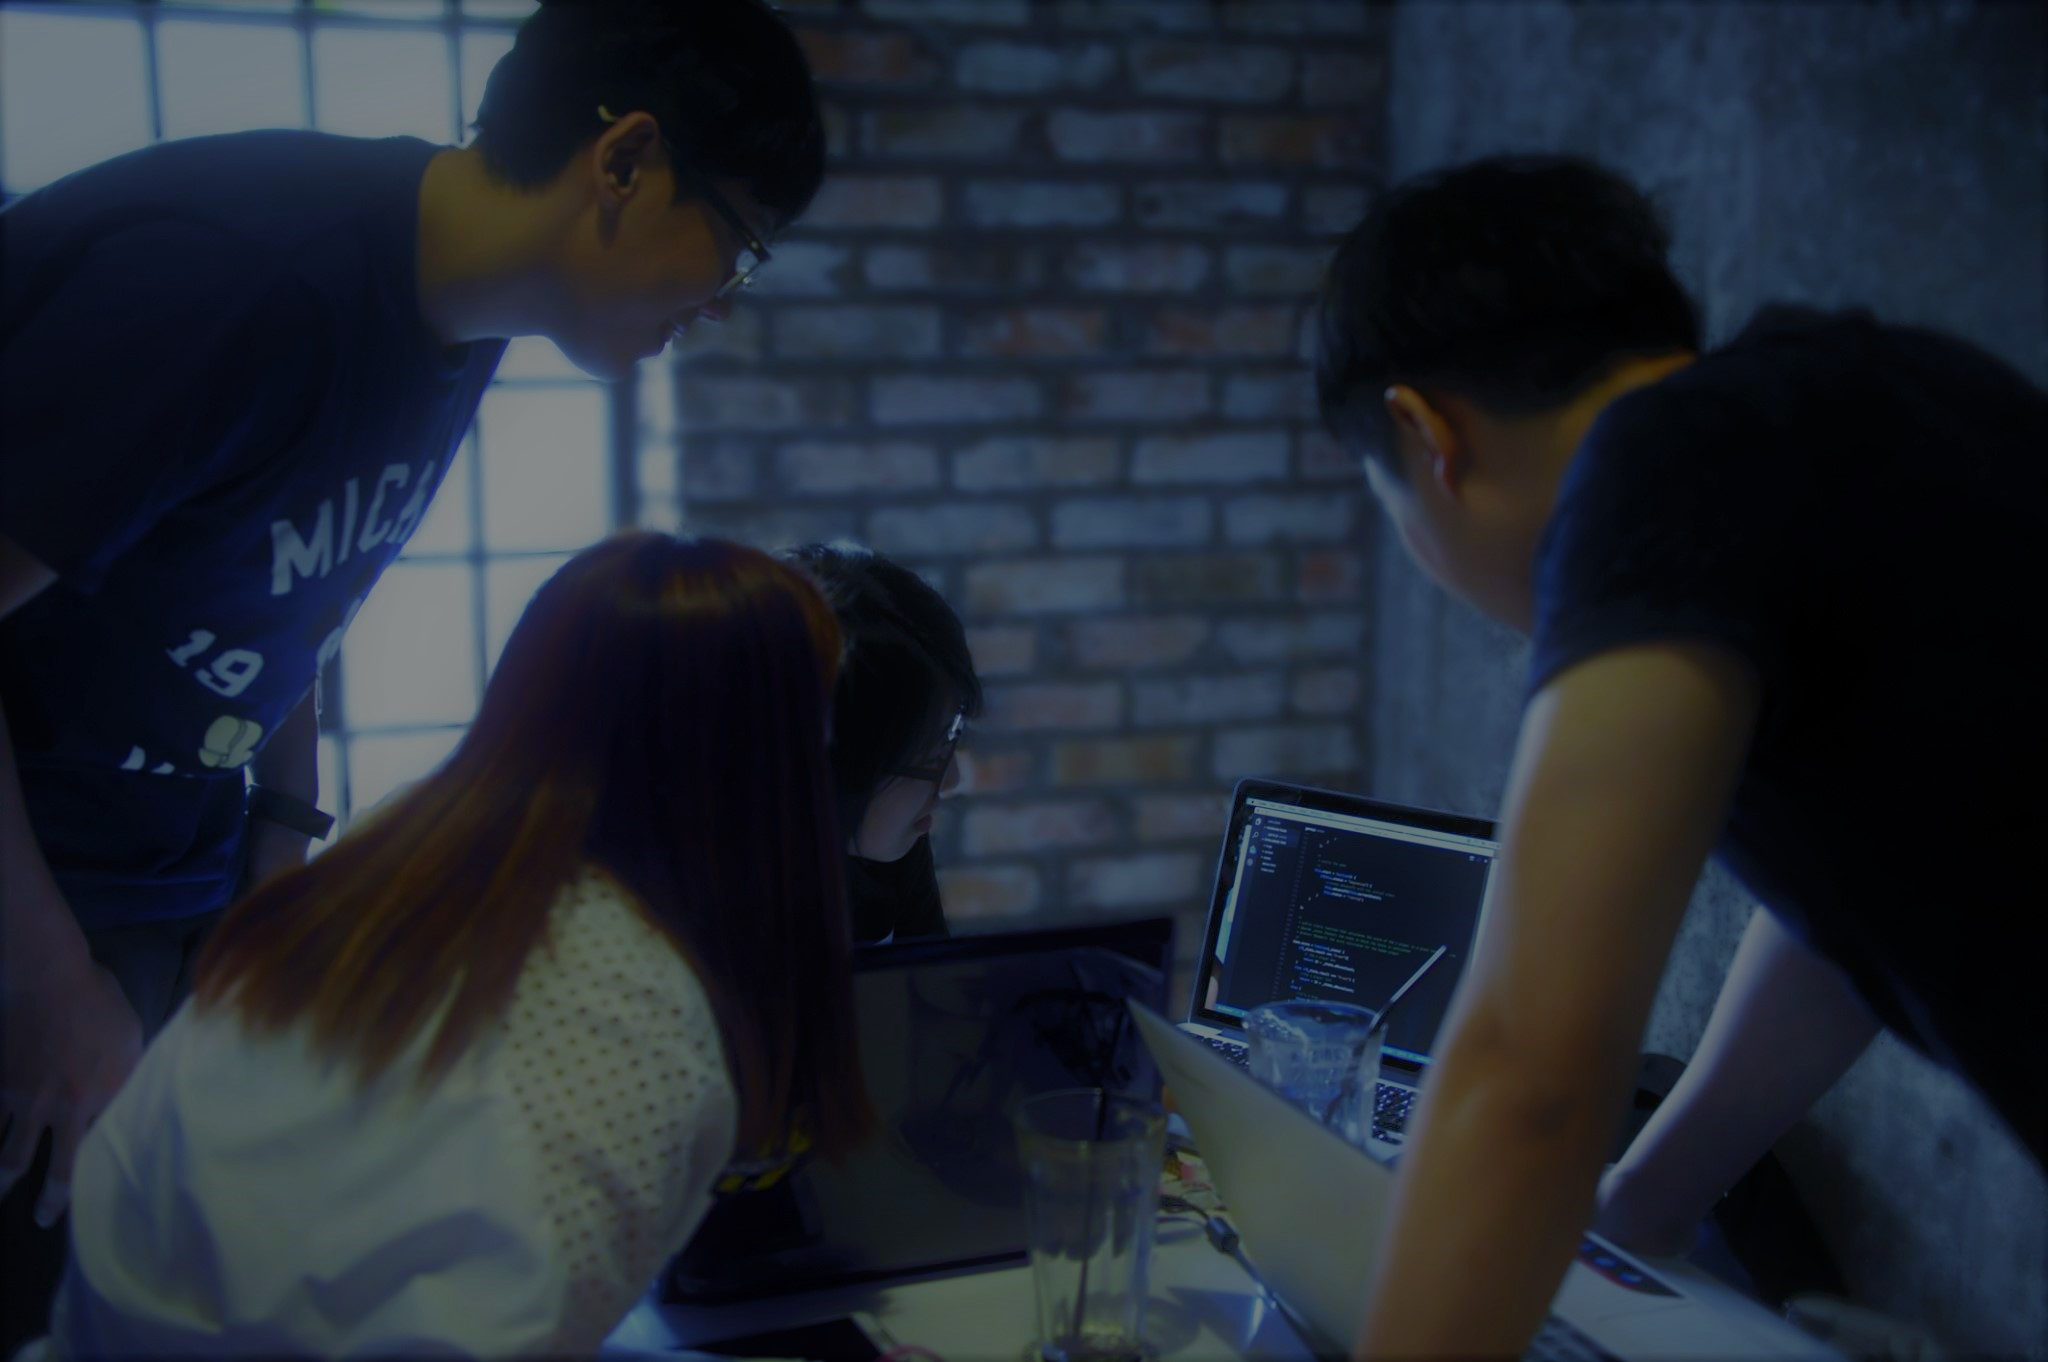
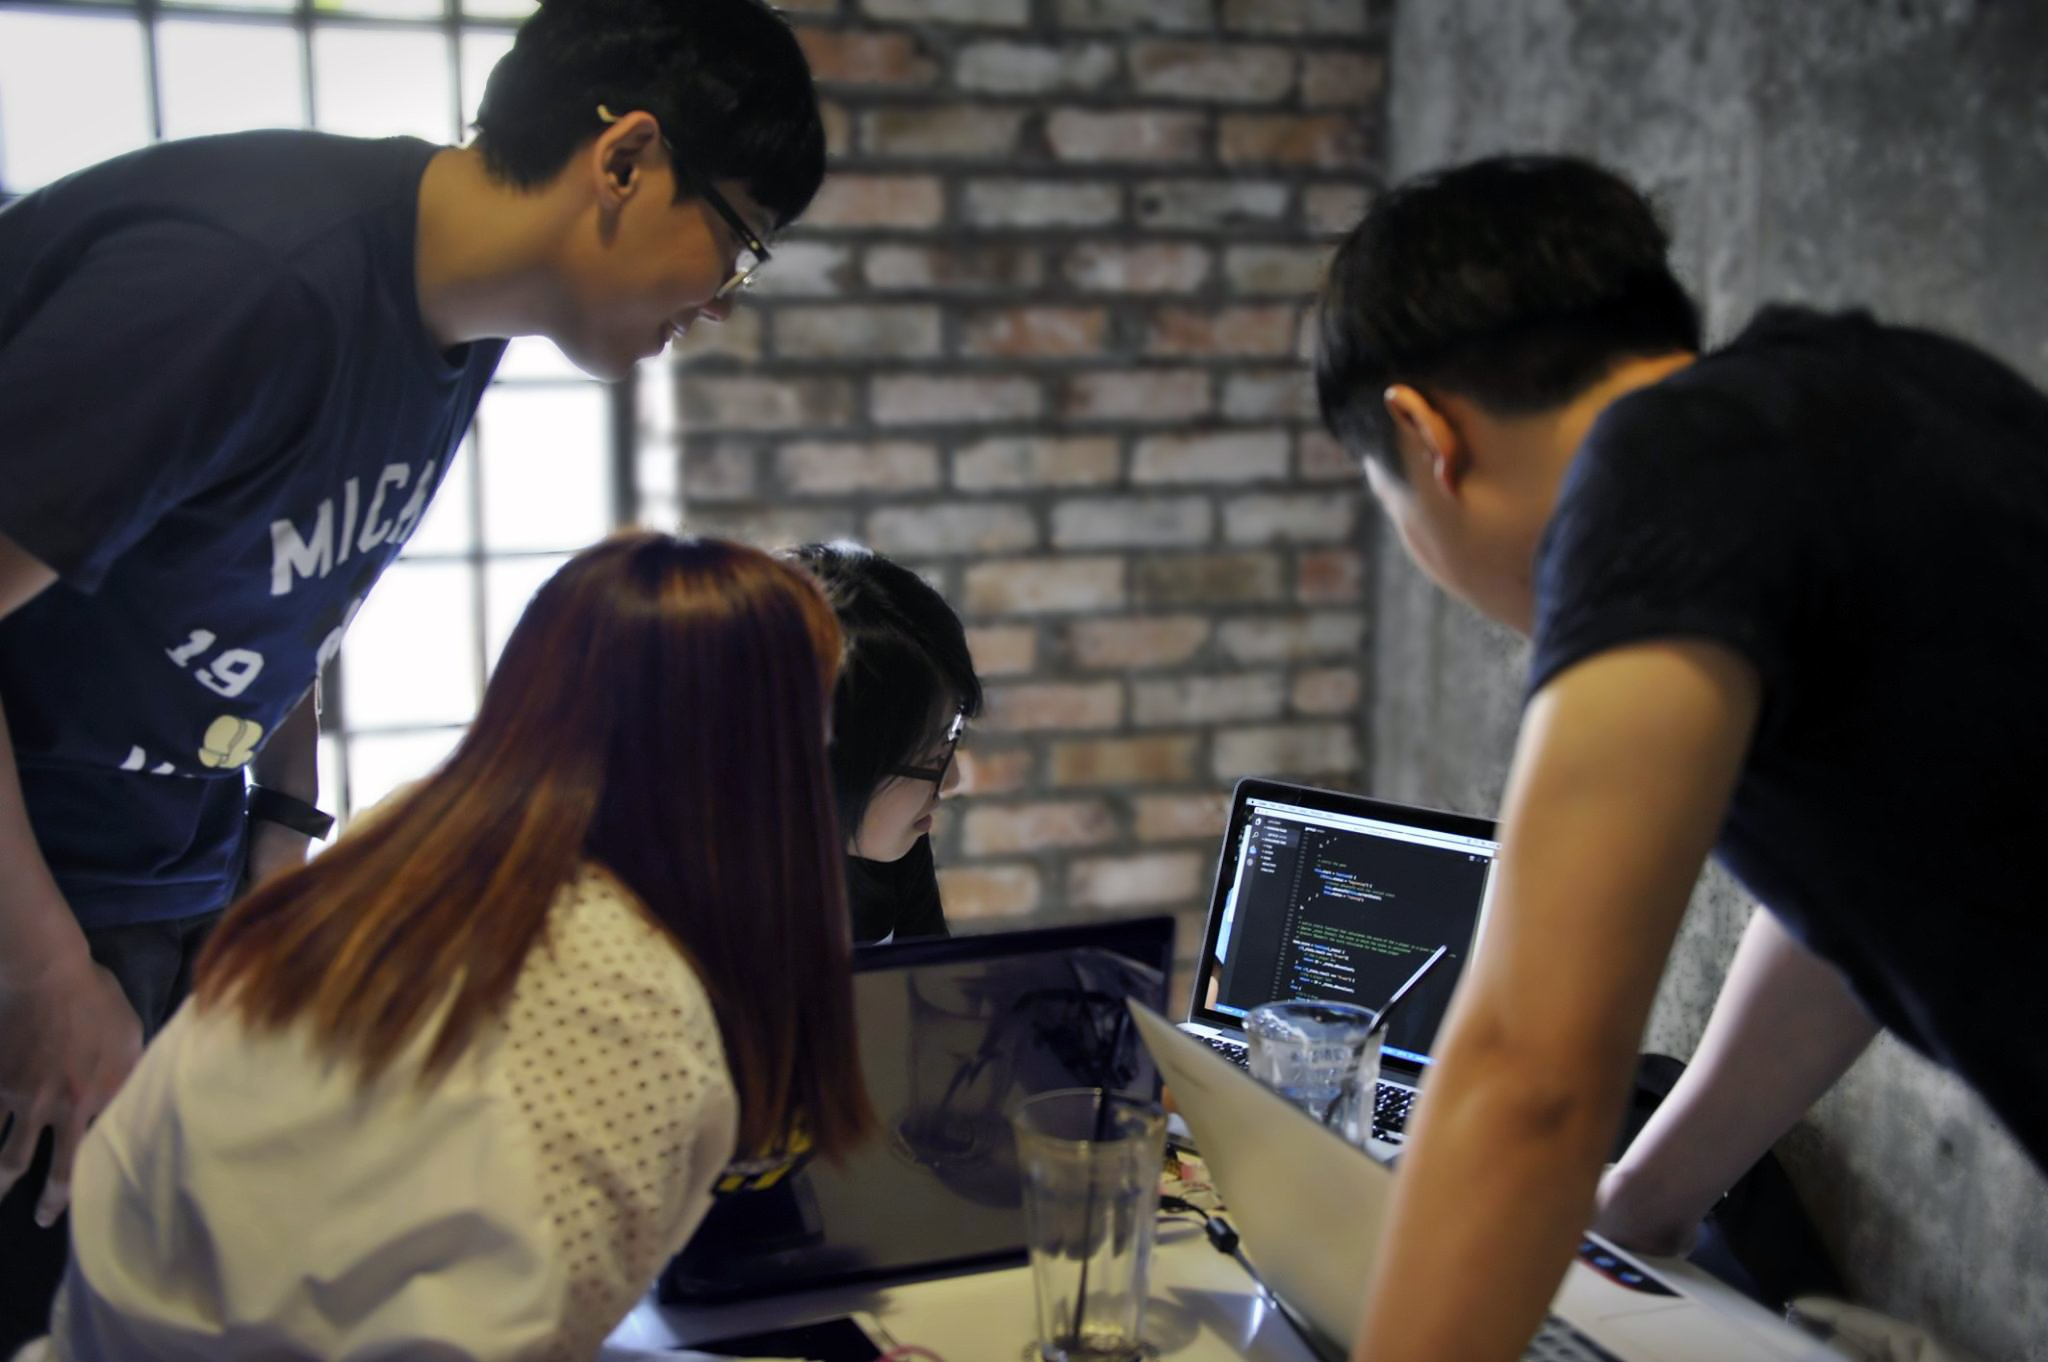
q7 v.1 update

diff --git a/q7.css b/q7.css
@@ -17,7 +17,7 @@
     font-style: italic;
 }
 .bg{
-    background-image: url("bac.jpeg"); 
+    background-image: linear-gradient(50deg, rgba(96, 93, 93, 0.4), rgba(136, 32, 114, 0.8)), url("bac.jpeg");
     height: 100%;
     background-position: center;
     background-repeat: no-repeat;
@@ -44,9 +44,7 @@ p{
 input[type=text]{
     width: 100%;
 }
-.form-part{
-    padding-bottom: 1em;
-}
+
 button[type=submit]{
     width: 100%;
     background-color: rgb(24, 179, 52);
@@ -60,4 +58,8 @@ select{
 textarea{
     width: 100%;
     height: 6em;
+}
+
+.form-part{
+    padding-bottom: 1em;
 }

diff --git a/q7.html b/q7.html
@@ -107,9 +107,9 @@
               </div>
               </div>
               <div class="form-part">
-                <textarea name="comment" id="comment">
-                Enter your comment here...
-                </textarea>
+                <textarea placeholder="Enter your comment here..."></textarea>
+
+                
               </div>
               <div class="form-part">
                   <button type="submit" form="form" id="submit" value="Submit">Submit</button>
